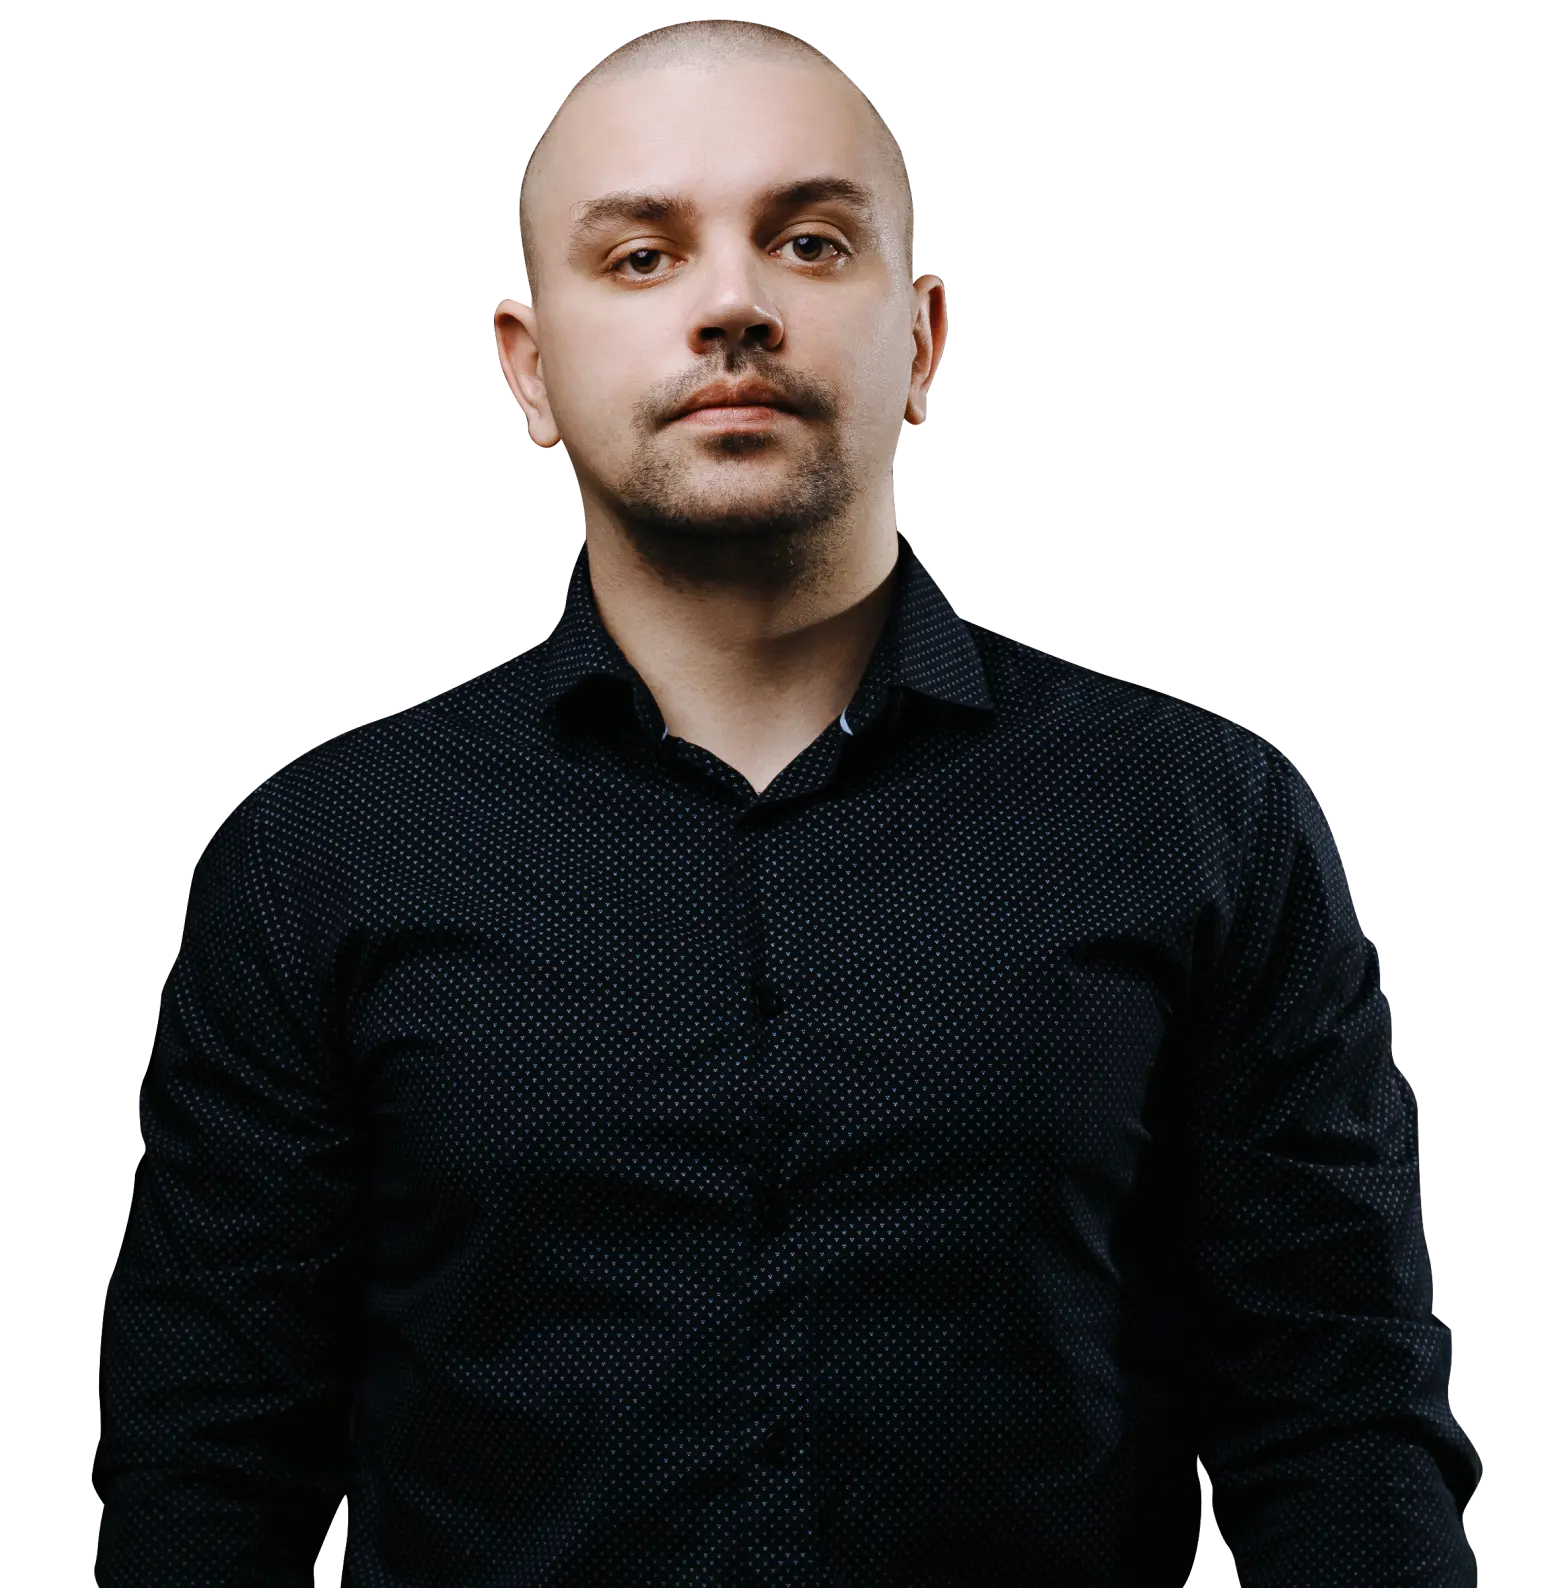
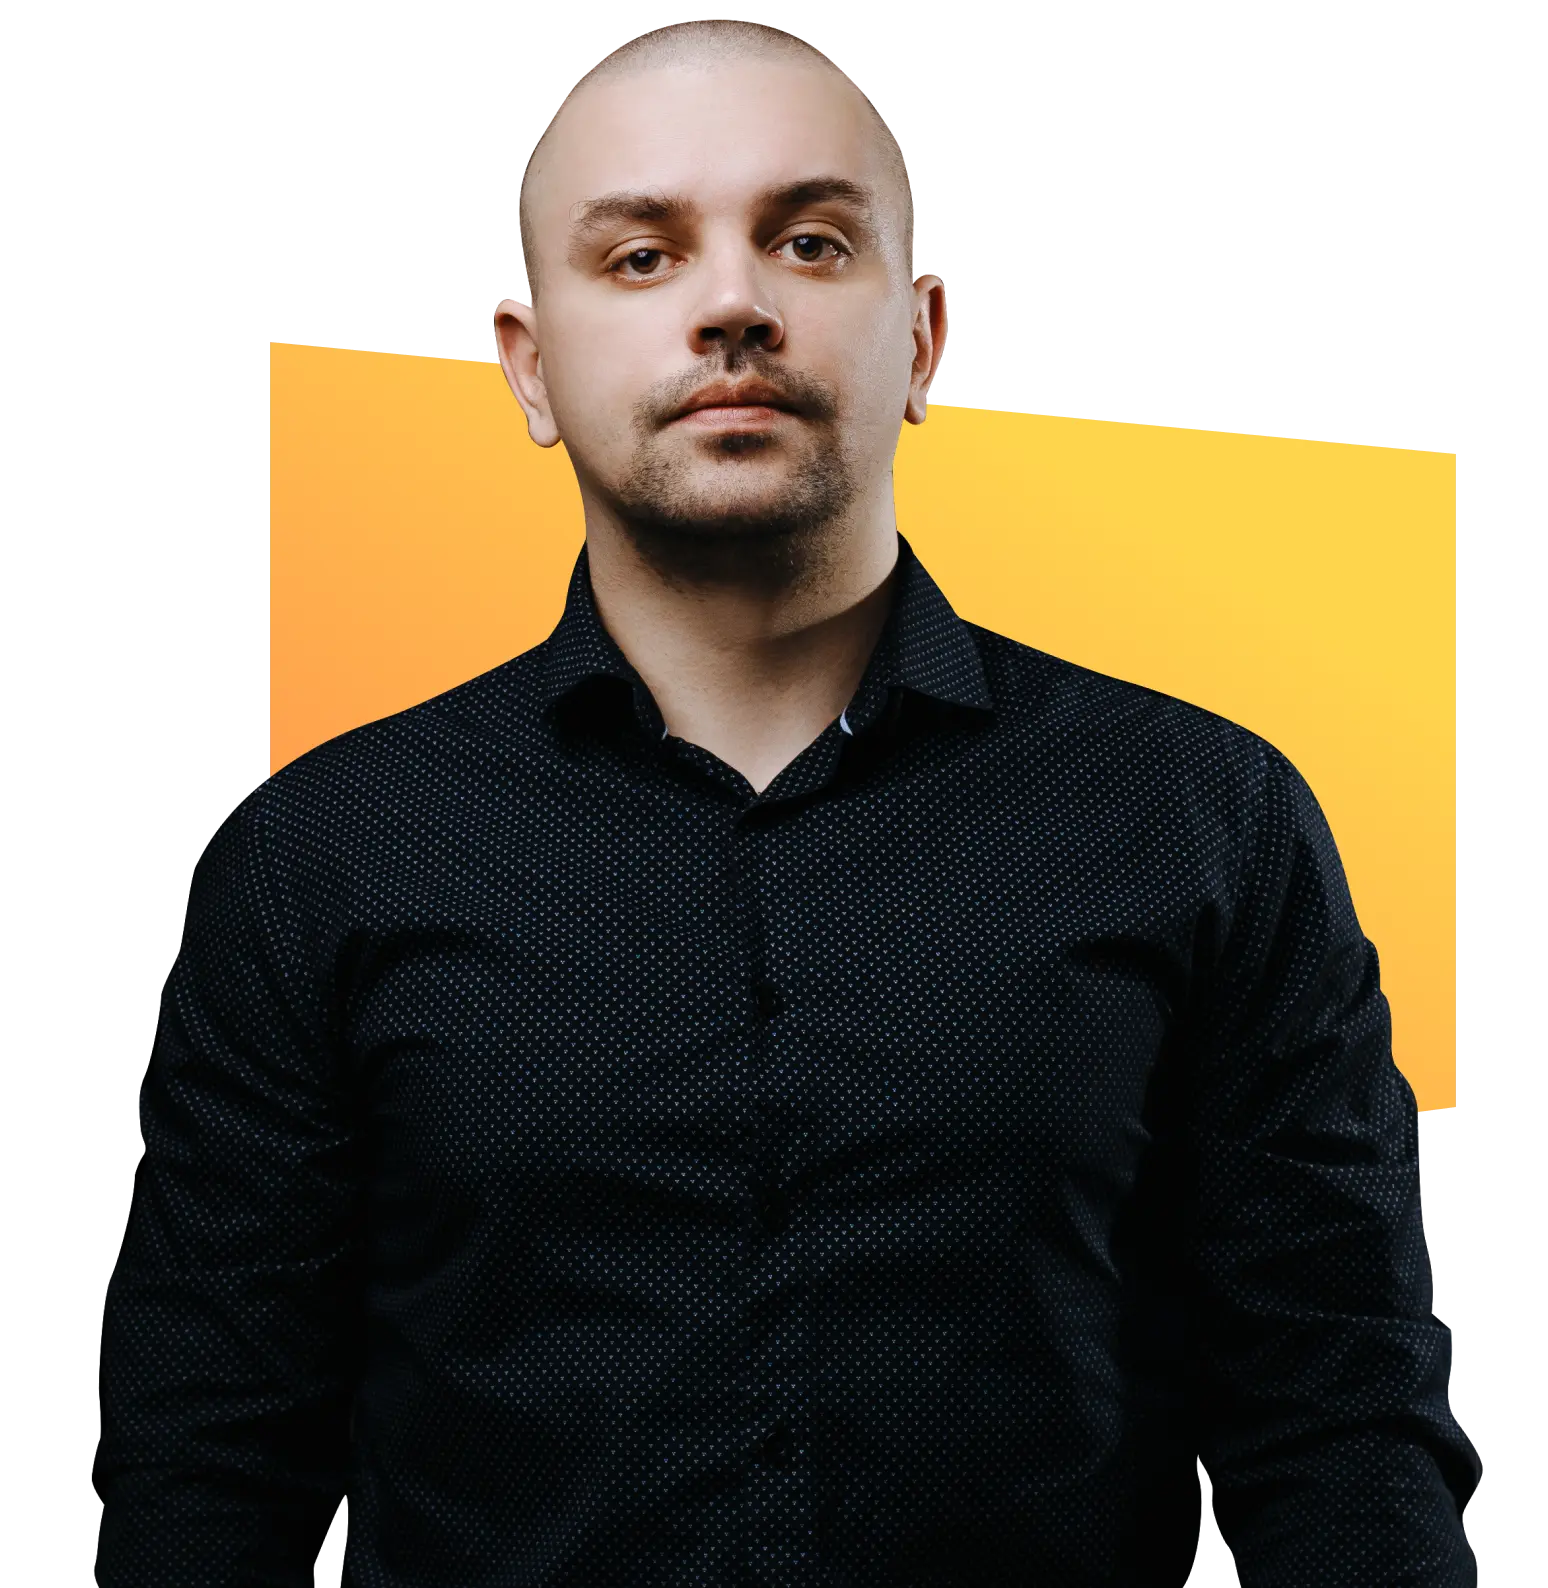
Исправляет ошибки в promo и examples__result

Changed region(s): [[0.5581, 0.2469, 0.9612, 0.7097], [0.155, 0.216, 0.4031, 0.4937]]

diff --git a/src/blocks/promo/promo.scss b/src/blocks/promo/promo.scss
@@ -54,21 +54,8 @@
   }
 
   &--bottom {
-    margin-bottom: 115px;
+    margin-bottom: 92px;
     line-height: 0;
-  }
-
-  &--bottom::before {
-    @include pseudo;
-    position: absolute;
-    top: 76px;
-    right: 0;
-    left: 0;
-    z-index: -1;
-    width: 320px;
-    height: 312px;
-    background-image: url("../../img/photo-Kirill__background@mobile.svg");
-    background-position: 0 0;
   }
 }
 
@@ -114,7 +101,7 @@
 
 .promo__box {
   position: absolute;
-  bottom: -78px;
+  bottom: -54px;
   width: 100%;
   padding: 0 40px;
   padding-top: 20px;
@@ -260,7 +247,7 @@
       left: 0;
       min-width: 576px;
       height: 165px;
-      background-image: url("../../img/promo__arrow-background.svg");
+      background-image: url("../../img/promo__arrow-background-desktop.svg");
     }
 
     & > br {
@@ -295,19 +282,6 @@
     margin: 0;
   }
 
-  .promo__image {
-    &::before {
-      content: "";
-      position: absolute;
-      top: 170px;
-      left: 135px;
-      z-index: -1;
-      width: 593px;
-      height: 461px;
-      background-image: linear-gradient(141.63deg, #ffd44d 22.52%, #ff844d 95.16%);
-    }
-  }
-
   .promo__button {
     right: 15px;
     bottom: -187px;
@@ -323,21 +297,21 @@
     &::before {
       @include pseudo;
       position: absolute;
-      bottom: -20px;
+      top: -7px;
       left: 0;
-      min-width: 100%;
-      height: 21px;
-      background-image: url("../../img/promo__box-bottom.svg");
+      width: 214px;
+      height: 8px;
+      background-image: url("../../img/promo__box-top@desktop.svg");
     }
 
     &::after {
       @include pseudo;
       position: absolute;
-      top: -7px;
+      bottom: -20px;
       left: 0;
-      min-width: 100%;
-      height: 8px;
-      background-image: url("../../img/promo__box-top.svg");
+      width: 214px;
+      height: 21px;
+      background-image: url("../../img/promo__box-bottom@desktop.svg");
     }
   }
 

diff --git a/src/blocks/examples/examples.scss b/src/blocks/examples/examples.scss
@@ -304,12 +304,35 @@
 
   .examples__result {
     position: absolute;
-    bottom: -38px;
+    bottom: -28px;
     left: 565px;
     width: 404px;
-    padding: 50px 35px;
-    background-color: inherit;
-    background-image: url("../../img/examples__result-bc.svg");
+    padding: 40px 35px;
+    padding-top: 32px;
+
+    &::before {
+      @include pseudo;
+      position: absolute;
+      top: -22px;
+      left: 0;
+      width: 100%;
+      height: 23px;
+      background-image: url("../../img/examples__result-top@desktop.svg");
+      background-position: top;
+      background-size: cover;
+    }
+
+    &::after {
+      @include pseudo;
+      position: absolute;
+      bottom: -9px;
+      left: 0;
+      width: 100%;
+      height: 10px;
+      background-image: url("../../img/examples__result-bottom@desktop.svg");
+      background-position: top;
+      background-size: cover;
+    }
   }
 
   .examples__control {
